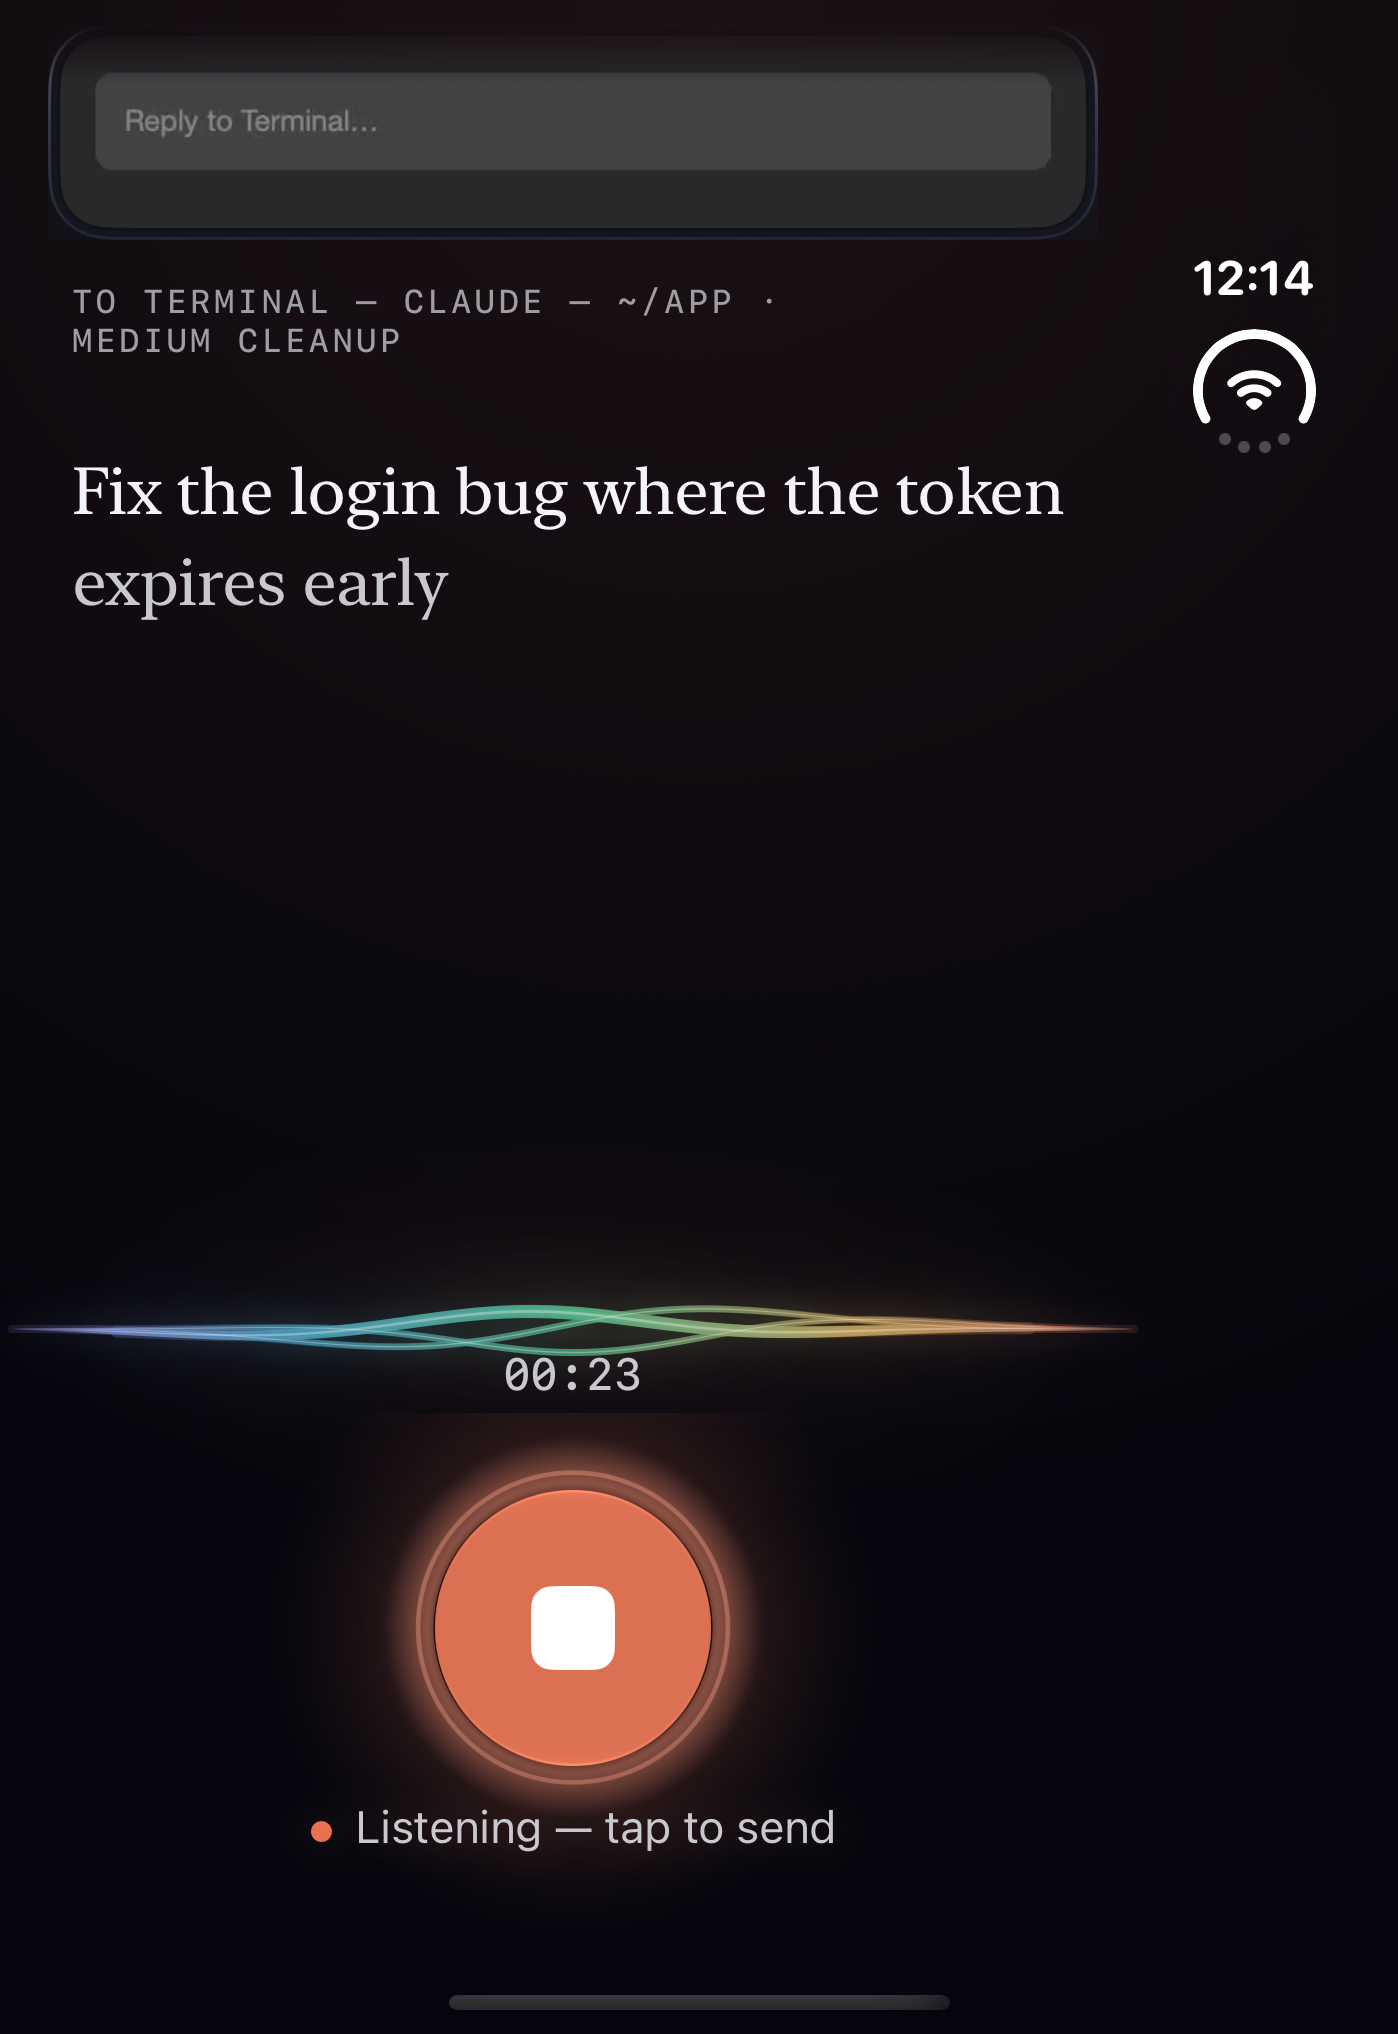
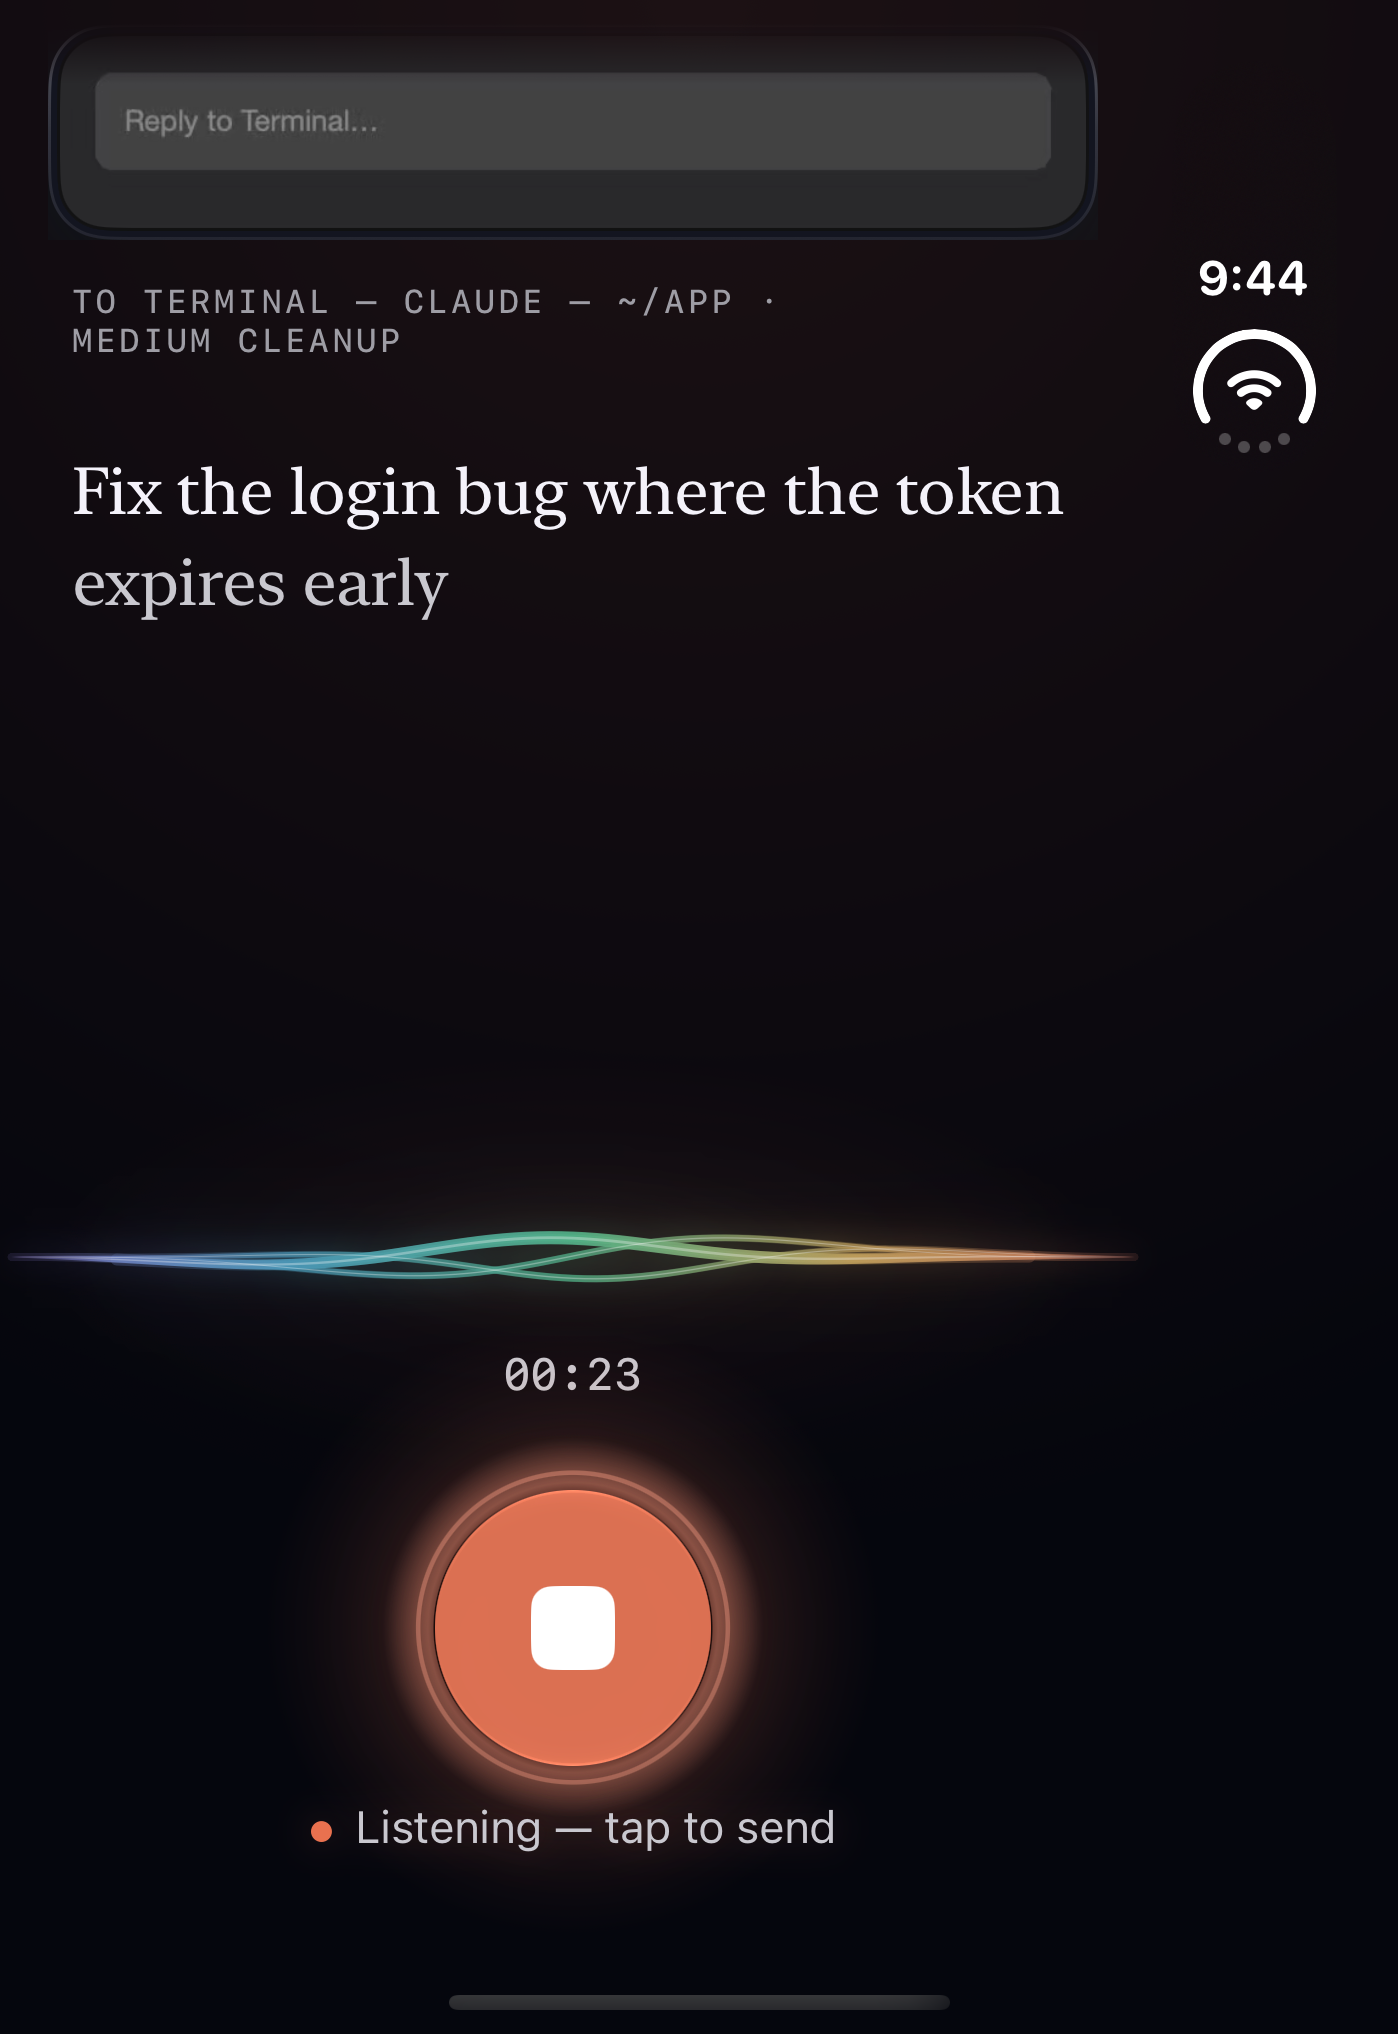
The Duo's cover: the trackpad has a way out — a row under the plate with the keyboard, back to the mic and close, where the mic page's row had them — and sits 16 pt in from the edges without the inner outline; the recording clock gets its own line under the Thread on a short screen (the crests ran t

Changed region(s): [[0.0, 0.5885, 0.7997, 0.6814], [0.8612, 0.1239, 0.9535, 0.1549]]

diff --git a/iOS/Macrophone/UI/InputCarousel.swift b/iOS/Macrophone/UI/InputCarousel.swift
@@ -44,6 +44,10 @@ struct InputCarousel<Mic: View, Thread: View>: View {
     /// The page row isn't drawn here (a folded Duo's deck draws the switcher in a corner,
     /// `InputCornerSwitcher`, so the trackpad is the whole half).
     var rowHidden = false
+    /// The Duo's cover (Oct 31 2026, Sameer: "there's no way to close the trackpad"): the trackpad
+    /// page carries its own row under the plate — the keyboard, back to the mic, close — in the
+    /// places the mic page's row has them.
+    var trackpadBar = false
     /// The mic page: the mic button and the status line, built by the mic screen.
     @ViewBuilder var mic: () -> Mic
     /// The Thread's band, between the row and the pages.
@@ -95,7 +99,10 @@ struct InputCarousel<Mic: View, Thread: View>: View {
                 }
                 .frame(maxWidth: .infinity)
                 .frame(height: pagesHeight, alignment: .top)
-                .clipped()
+                // Clipped at the sides only: the pages slide in from there, but the mic's glow
+                // runs past the page above and below (Oct 31 2026: "the glow of the orange mic
+                // indicator is getting cut off").
+                .clipShape(SidesOnly())
             }
             // Without a shape of its own the empty room beside the mic and under the Thread
             // would take no touch at all.
@@ -138,7 +145,12 @@ struct InputCarousel<Mic: View, Thread: View>: View {
                 // the Thread, the two as one group (the Thread's slot carries the room above).
                 .frame(maxHeight: fill != nil ? .infinity : nil, alignment: rowHidden ? .top : .center)
         case .trackpad:
-            TrackpadPage(input: input, watcher: watcher, big: rowHidden)
+            VStack(spacing: 0) {
+                TrackpadPage(input: input, watcher: watcher, big: rowHidden && !trackpadBar,
+                             inset: trackpadBar ? 16 : WatchLook.sideMargin)
+                    .frame(maxHeight: .infinity)
+                if trackpadBar { TrackpadBar(input: input) }
+            }
                 .frame(height: fill != nil ? pagesHeight : micHeight > 0 ? micHeight + threadHeight : nil)
                 // The way back: the row above, or a swipe in from the plate's left edge.
                 .overlay(alignment: .leading) {
@@ -184,6 +196,44 @@ struct InputCarousel<Mic: View, Thread: View>: View {
         // The deck: the mic page sits in the middle of the room (a folded deck's at its top).
         if let pages = pagesHeight, fill != nil, micHeight > 0, !rowHidden { top += max(0, (pages - micHeight) / 2) }
         return abs(p.x - width / 2) < 70 && p.y > top - 6 && p.y < top + (compact ? 130 : 150)
+    }
+}
+
+/// A clip at the sides alone: tall enough above and below for any glow.
+private struct SidesOnly: Shape {
+    func path(in rect: CGRect) -> Path { Path(rect.insetBy(dx: 0, dy: -160)) }
+}
+
+/// The cover's trackpad row (Oct 31 2026): the keyboard on the left, back to the mic in the
+/// middle, close on the right — where the mic page's row had the keyboard, the mic and the
+/// trackpad, so the thumb that opened the trackpad closes it in the same place.
+struct TrackpadBar: View {
+    @ObservedObject var input: MacInput
+
+    var body: some View {
+        HStack(spacing: 0) {
+            Group {
+                if input.pages.contains(.keyboard) {
+                    button("keyboard", "Keyboard", "trackpad-bar-keyboard") { input.show(.keyboard) }
+                } else { Color.clear }
+            }
+            .frame(maxWidth: .infinity)
+            button("mic.fill", "Back to the mic", "trackpad-bar-mic") { input.show(.mic) }
+                .frame(width: 84)
+            button("xmark", "Close the trackpad", "trackpad-bar-close") { input.show(.mic) }
+                .frame(maxWidth: .infinity)
+        }
+        .frame(height: 56)
+        .padding(.bottom, 4)
+    }
+
+    private func button(_ symbol: String, _ label: String, _ id: String, _ action: @escaping () -> Void) -> some View {
+        Button { Haptics.tick(); action() } label: {
+            Image(systemName: symbol).font(.title3.weight(.semibold)).frame(width: 30, height: 30)
+        }
+        .circleGlassButton()
+        .accessibilityLabel(label)
+        .accessibilityIdentifier(id)
     }
 }
 

diff --git a/iOS/Macrophone/UI/MainView.swift b/iOS/Macrophone/UI/MainView.swift
@@ -179,8 +179,9 @@ struct MainView: View {
                 InputCarousel(input: input, watcher: watcher, compact: compact,
                               // The cover: no Thread while a window shows; the trackpad page
                               // takes a thumb's worth of room instead.
-                              threadHeight: coverWatching ? (input.page == .trackpad ? 96 : 0) : filamentSlot,
-                              rowHidden: isCover && watcher.isOpen) {
+                              threadHeight: coverWatching ? (input.page == .trackpad ? 116 : 0) : filamentSlot,
+                              rowHidden: isCover && watcher.isOpen,
+                              trackpadBar: coverWatching) {
                     if coverWatching {
                         // One row under the thumb: the keyboard, the mic, the trackpad.
                         VStack(spacing: 2) {
@@ -204,12 +205,6 @@ struct MainView: View {
                 } thread: {
                     if !coverWatching {
                         threadBand
-                    }
-                }
-                // The trackpad's way back on the cover (the row is gone): the pages' cluster.
-                .overlay(alignment: .topTrailing) {
-                    if coverWatching, input.page == .trackpad {
-                        InputCornerSwitcher(input: input).padding(.trailing, 14).padding(.top, 8)
                     }
                 }
             }
@@ -372,14 +367,31 @@ struct MainView: View {
     // MARK: The Thread — fixed above the mic
 
     var filamentHeight: CGFloat { compact ? 56 : 96 }
-    var filamentSlot: CGFloat { compact ? 56 : 84 }
+    /// A short screen (the Duo's cover, an SE) gives the recording's clock a line of its own
+    /// under the Thread while the mic is open — in the Thread's 56 pt the crests ran through it
+    /// (Oct 31 2026). The room comes from the transcript above; the mic never moves.
+    var timerLine: CGFloat { compact && isRecording ? 24 : 0 }
+    var filamentSlot: CGFloat { compact ? 56 + timerLine : 84 }
 
     var threadBand: some View {
-        ZStack {
-            Filament(mode: filamentMode, meter: recorder.meter, height: filamentHeight)
-                .frame(height: filamentSlot)
-            DeliveredCheck(visible: showCheck, color: checkColor)
-            timer.frame(maxHeight: .infinity, alignment: .bottom)
+        Group {
+            if compact {
+                VStack(spacing: 0) {
+                    ZStack {
+                        Filament(mode: filamentMode, meter: recorder.meter, height: filamentHeight)
+                        DeliveredCheck(visible: showCheck, color: checkColor)
+                    }
+                    .frame(height: 56)
+                    if timerLine > 0 { timer.frame(height: timerLine).transition(.opacity) }
+                }
+            } else {
+                ZStack {
+                    Filament(mode: filamentMode, meter: recorder.meter, height: filamentHeight)
+                        .frame(height: filamentSlot)
+                    DeliveredCheck(visible: showCheck, color: checkColor)
+                    timer.frame(maxHeight: .infinity, alignment: .bottom)
+                }
+            }
         }
         .frame(height: filamentSlot)
         .padding(.horizontal, -4)

diff --git a/iOS/Macrophone/UI/TrackpadView.swift b/iOS/Macrophone/UI/TrackpadView.swift
@@ -16,6 +16,8 @@ struct TrackpadPage: View {
     /// A folded Duo's deck (Oct 25 2026): the trackpad is the whole half, like a laptop's — an
     /// even inset all round and the faint inner outline of a trackpad.
     var big = false
+    /// The plate's room at the sides.
+    var inset: CGFloat = WatchLook.sideMargin
     @Environment(\.accessibilityReduceTransparency) private var reduceTransparency
     @Environment(\.colorSchemeContrast) private var contrast
 
@@ -54,7 +56,7 @@ struct TrackpadPage: View {
                 .transition(.opacity)
             }
         }
-        .padding(.horizontal, WatchLook.sideMargin)
+        .padding(.horizontal, inset)
         .padding(.top, big ? 8 : 0)
         .padding(.bottom, 8)
         .animation(.easeOut(duration: 0.3), value: input.trackpadUsed)
